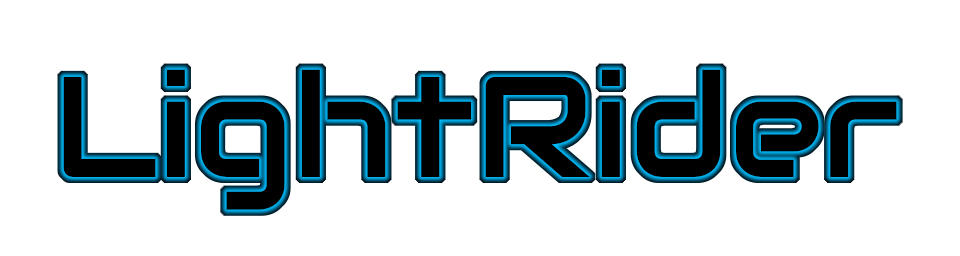
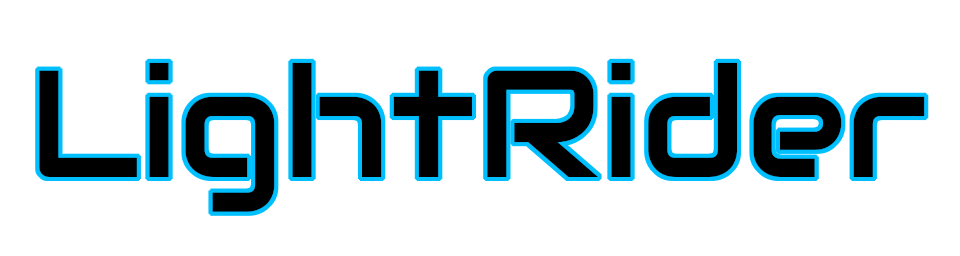
Added UI anchoring and proper scaling

Changed region(s): [[0.0312, 0.2188, 0.9688, 0.8438]]

diff --git a/LightRider/src/Components/GuiImageRenderer.cpp b/LightRider/src/Components/GuiImageRenderer.cpp
@@ -2,9 +2,11 @@
 
 #include "Game.h"
 
-GuiImageRenderer::GuiImageRenderer(const std::string& shaderId, const std::string& textureId, float depth) : 
+GuiImageRenderer::GuiImageRenderer(const std::string& shaderId, const std::string& textureId, Camera* pCamera) : 
     Renderable(shaderId, textureId, true),
-    m_depth(depth)
+    m_horizontalAnchor(HorizontalAnchor::LEFT),
+    m_verticalAnchor(VerticalAnchor::BOTTOM),
+    m_scale(1.0f, 1.0f)
 {
     AssetManager* pAssets = Game::getInstance().getScene()->getAssetManager();
 
@@ -22,15 +24,85 @@ GuiImageRenderer::GuiImageRenderer(const std::string& shaderId, const std::strin
 
     m_pShaderProgram->setVerbose(true);
 
+    m_pTexture = pAssets->getTexture(textureId);
+
     m_pShape = pAssets->getShape("planeShape");
+
+    m_pCamera = pCamera;
+
+    updateViewTransform();
+}
+
+glm::vec2 GuiImageRenderer::getScreenPosition() const
+{
+    glm::vec2 transformPosition = getTransform()->getPosition();
+    glm::vec2 screenPosition = glm::vec2();
+
+    switch (m_horizontalAnchor)
+    {
+    case HorizontalAnchor::LEFT:
+        screenPosition.x = transformPosition.x;
+        break;
+    case HorizontalAnchor::RIGHT:
+        screenPosition.x = m_viewSize.x - transformPosition.x;
+        break;
+    case HorizontalAnchor::CENTER:
+        screenPosition.x = m_viewSize.x * 0.5f + transformPosition.x;
+        break;
+    case HorizontalAnchor::STRETCH:
+        screenPosition.x = m_viewSize.x * transformPosition.x;
+        break;
+    }
+
+    switch (m_verticalAnchor)
+    {
+    case VerticalAnchor::BOTTOM:
+        screenPosition.y = transformPosition.y;
+        break;
+    case VerticalAnchor::TOP:
+        screenPosition.y = m_viewSize.y - transformPosition.y;
+        break;
+    case VerticalAnchor::CENTER:
+        screenPosition.y = m_viewSize.y * 0.5f + transformPosition.y;
+        break;
+    case VerticalAnchor::STRETCH:
+        screenPosition.y = m_viewSize.y * transformPosition.y;
+        break;
+    }
+
+    return screenPosition;
+}
+
+glm::vec2 GuiImageRenderer::getScreenSize() const
+{
+    return m_scale * glm::vec2(m_pTexture->getWidth(), m_pTexture->getHeight());
+}
+
+void GuiImageRenderer::update(float deltaTime)
+{
+    Renderable::update(deltaTime);
+
+    updateViewTransform();
 }
 
 void GuiImageRenderer::render()
 {
-    glm::mat4& transformMatrix = getTransform()->getTransformMatrix();
-    int viewX, viewY, viewWidth, viewHeight;
+    if (Game::getInstance().getScene()->getActiveCamera() != m_pCamera)
+        return;
 
-    Game::getInstance().getScene()->getActiveCamera()->getViewport(viewX, viewY, viewWidth, viewHeight);
+    glm::vec2 screenPosition = getScreenPosition();
+    glm::vec2 screenSize = getScreenSize();
+
+    glm::mat4 transformMatrix =
+        glm::translate(glm::mat4(1.0f), glm::vec3(
+            (screenPosition.x / m_viewSize.x - 0.5f) * 2,
+            (screenPosition.y / m_viewSize.y - 0.5f) * 2,
+            getTransform()->getPosition().z)) *
+        glm::scale(glm::mat4(1.0f), glm::vec3(
+            screenSize.x / m_viewSize.x,
+            screenSize.y / m_viewSize.y,
+            1.0f
+        ));
 
     glUniformMatrix4fv(m_pShaderProgram->getUniform("M"), 1, GL_FALSE, &transformMatrix[0][0]);
 
@@ -41,5 +113,10 @@ void GuiImageRenderer::render()
 
 float GuiImageRenderer::getDepth(Camera* pCamera) const
 {
-    return m_depth;
+    return getTransform()->getPosition().z;
+}
+
+void GuiImageRenderer::updateViewTransform()
+{
+    m_pCamera->getViewport(m_viewPosition.x, m_viewPosition.y, m_viewSize.x, m_viewSize.y);
 }

diff --git a/LightRider/include/Components/GuiImageRenderer.h b/LightRider/include/Components/GuiImageRenderer.h
@@ -2,15 +2,48 @@
 
 #include "Renderable.h"
 #include "Program.h"
+#include "Texture.h"
 #include "Shape.h"
+
+enum class HorizontalAnchor : unsigned char
+{
+    LEFT    = 0,
+    RIGHT   = 1,
+    CENTER  = 2,
+    STRETCH = 3
+};
+
+enum class VerticalAnchor : unsigned char
+{
+    BOTTOM  = 0,
+    TOP     = 1,
+    CENTER  = 2,
+    STRETCH = 3
+};
 
 class GuiImageRenderer : public Renderable
 {
 public:
 
-    GuiImageRenderer(const std::string& shaderId, const std::string& textureId, float depth = 0.0f);
+    GuiImageRenderer(const std::string& shaderId, const std::string& textureId, Camera* pCamera);
 
-    // TODO: Matrix scaling according to screen size, customizeable anchoring.
+    HorizontalAnchor getHorizontalAnchor() const { return m_horizontalAnchor; }
+
+    void setHorizontalAnchor(HorizontalAnchor anchor) { m_horizontalAnchor = anchor; }
+
+    VerticalAnchor getVeritcalAnchor() const { return m_verticalAnchor; }
+
+    void setVerticalAnchor(VerticalAnchor anchor) { m_verticalAnchor = anchor; };
+
+    glm::vec2 getScale() const { return m_scale; }
+    
+    void setScale(const glm::vec2& scale) { m_scale = scale; };
+
+    glm::vec2 getScreenPosition() const;
+
+    glm::vec2 getScreenSize() const;
+
+    virtual void update(float deltaTime);
 
     virtual void render();
 
@@ -18,14 +51,24 @@ public:
 
 private:
 
-    bool m_isPositionInPixels;
+    HorizontalAnchor m_horizontalAnchor;
 
-    bool m_isSizeInPixels;
+    VerticalAnchor m_verticalAnchor;
 
-    float m_depth;
+    glm::vec2 m_scale;
 
     Program* m_pShaderProgram;
 
+    Texture* m_pTexture;
+
     Shape* m_pShape;
+
+    Camera* m_pCamera;
+
+    glm::ivec2 m_viewPosition;
+
+    glm::ivec2 m_viewSize;
+
+    inline void updateViewTransform();
 };
 

diff --git a/LightRider/src/Game.cpp b/LightRider/src/Game.cpp
@@ -129,6 +129,8 @@ void Game::run(Scene *pScene)
         if (deltaTime > maxDeltaTime)
             deltaTime = maxDeltaTime;
 
+        m_wasAnyKeyPressed = false;
+
         glfwPollEvents();
 
         for (int i = 0; i < m_joystickCount; i++)
@@ -156,6 +158,14 @@ void Game::run(Scene *pScene)
 
     glfwDestroyWindow(m_pWindow);
     glfwTerminate();
+}
+
+void Game::changeScene(Scene* pScene)
+{
+    if (m_gameState == GameState::RUNNING)
+        m_pNextScene = pScene;
+    else
+        std::cerr << "Cannot change the scene of a game that is not running!" << std::endl;
 }
 
 void Game::exit()
@@ -186,6 +196,7 @@ void Game::glfwKeyCallback(GLFWwindow* pWindow, int key, int scancode, int actio
     switch (action)
     {
     case GLFW_PRESS:
+        game.m_wasAnyKeyPressed = true;
         game.m_keys[key] = true;
         break;
     case GLFW_RELEASE:
@@ -201,6 +212,7 @@ void Game::glfwMouseButtonCallback(GLFWwindow* pWindow, int button, int action, 
     switch (action)
     {
     case GLFW_PRESS:
+        game.m_wasAnyKeyPressed = true;
         game.m_mouseButtons[button] = true;
         break;
     case GLFW_RELEASE:

diff --git a/LightRider/src/Scenes/MenuScene.cpp b/LightRider/src/Scenes/MenuScene.cpp
@@ -5,6 +5,7 @@
 #include "Components/OrbitCamera.h"
 #include "Components/BikeRenderer.h"
 #include "Components/GuiImageRenderer.h"
+#include "Scenes/GameScene.h"
 
 namespace GC = GameConstants;
 
@@ -25,7 +26,18 @@ void MenuScene::initialize()
     pOrbitCamera->setSky("skyShader", "skyTexture", "sphereShape");
 
     GameObject* pTitleImage = GameObject::create("TitleImage");
-    pTitleImage->addComponent<GuiImageRenderer>("guiImageShader", "titleTexture");
+    GuiImageRenderer* titleImage = pTitleImage->addComponent<GuiImageRenderer>("guiImageShader", "titleTexture", pOrbitCamera);
+    titleImage->setVerticalAnchor(VerticalAnchor::STRETCH);
+    titleImage->setHorizontalAnchor(HorizontalAnchor::CENTER);
+    titleImage->getTransform()->setPosition(glm::vec3(0, 0.7f, 0.0f));
+}
+
+void MenuScene::postUpdate(float deltaTime)
+{
+    LightRiderScene::postUpdate(deltaTime);
+
+    if (Game::getInstance().wasAnyKeyPressed())
+        Game::getInstance().changeScene(new GameScene());
 }
 
 void MenuScene::loadAssets()

diff --git a/LightRider/include/Game.h b/LightRider/include/Game.h
@@ -32,6 +32,9 @@ public:
     // Runs the game, starting with the provided scene.
     void run(Scene* pScene);
 
+    // Changes the scene that the game is running.
+    void changeScene(Scene *pScene);
+
     // Exits the game.
     void exit();
 
@@ -61,6 +64,9 @@ public:
 
     // Returns the joystick with the given ID, or nullptr if the controller could not be found.
     Joystick* getJoystick(int id) const { return id >= m_joystickCount ? nullptr : m_pJoysticks[id]; }
+
+    // Returns true if a key or mouse button was pressed within the last frame.
+    bool wasAnyKeyPressed() const { return m_wasAnyKeyPressed; }
 
     // Returns the currently loaded scene.
     Scene* getScene() const { return m_pCurrentScene; }
@@ -118,6 +124,9 @@ private:
 
     // The Y position of the cursor.
     float m_cursorY;
+
+    // If true, a key was pressed within the last frame.
+    bool m_wasAnyKeyPressed;
 
     // Called when the close button is clicked.
     static void glfwWindowCloseCallback(GLFWwindow* pWindow);

diff --git a/LightRider/src/Texture.cpp b/LightRider/src/Texture.cpp
@@ -6,8 +6,8 @@ void Texture::init(std::string fileName, TextureType textureType)
 {
     m_textureType = textureType;
     
-    int width, height, channels;
-    unsigned char* pData = stbi_load(fileName.c_str(), &width, &height, &channels, 4);
+    int channels;
+    unsigned char* pData = stbi_load(fileName.c_str(), &m_width, &m_height, &channels, 4);
 
     glGenTextures(1, &m_textureId);
     glActiveTexture((GLenum)textureType);
@@ -17,6 +17,6 @@ void Texture::init(std::string fileName, TextureType textureType)
     glTexParameteri(GL_TEXTURE_2D, GL_TEXTURE_WRAP_T, GL_REPEAT);
     glTexParameteri(GL_TEXTURE_2D, GL_TEXTURE_MIN_FILTER, GL_LINEAR);
     glTexParameteri(GL_TEXTURE_2D, GL_TEXTURE_MAG_FILTER, GL_LINEAR);
-    glTexImage2D(GL_TEXTURE_2D, 0, GL_RGBA8, width, height, 0, GL_RGBA, GL_UNSIGNED_BYTE, pData);
+    glTexImage2D(GL_TEXTURE_2D, 0, GL_RGBA8, m_width, m_height, 0, GL_RGBA, GL_UNSIGNED_BYTE, pData);
     glGenerateMipmap(GL_TEXTURE_2D);
 }

diff --git a/LightRider/include/Texture.h b/LightRider/include/Texture.h
@@ -18,7 +18,7 @@ class Texture
 public:
 
     // Creates a new Texture instance.
-    Texture() : m_textureId(0), m_textureType(TextureType::NONE) { }
+    Texture() : m_textureId(0), m_textureType(TextureType::NONE), m_width(0), m_height(0) { }
 
     // Initializes the texture from the give file name and sepcified texture type.
     void init(std::string fileName, TextureType textureType);
@@ -29,6 +29,10 @@ public:
     // Returns the type of this texture.
     TextureType getTextureType() const { return m_textureType; }
 
+    int getWidth() const { return m_width; }
+
+    int getHeight() const { return m_height; }
+
 private:
 
     // The ID of the texture.
@@ -36,4 +40,8 @@ private:
 
     // The type of the texture.
     TextureType m_textureType;
+
+    int m_width;
+
+    int m_height;
 };

diff --git a/LightRider/include/Scenes/MenuScene.h b/LightRider/include/Scenes/MenuScene.h
@@ -12,6 +12,8 @@ public:
     // Initializes the MenuScene.
     virtual void initialize();
 
+    virtual void postUpdate(float deltaTime);
+
 protected:
 
     virtual void loadAssets();
